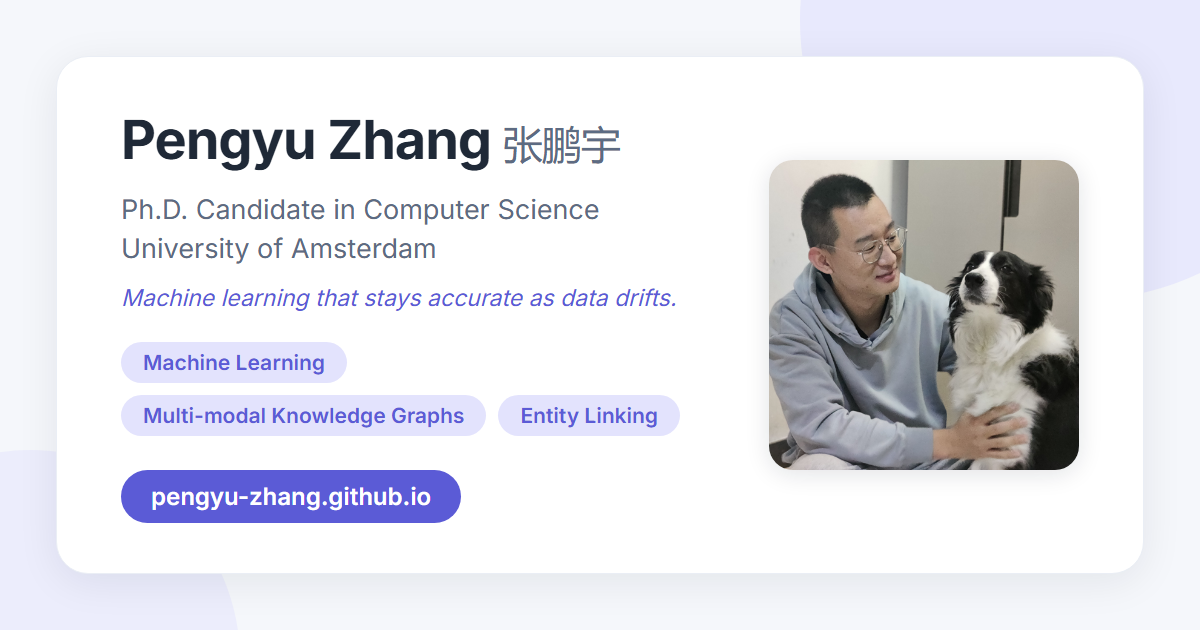
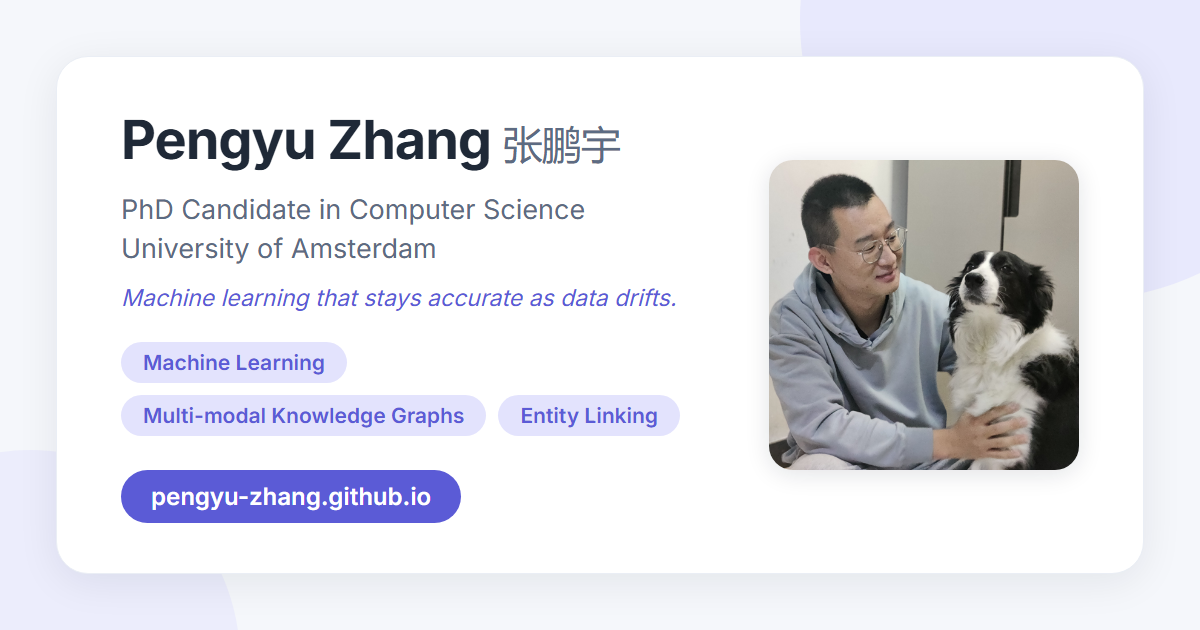
Copy: PhD and MEng without dots; languages as on the CV
European usage, matching UvA and the CV: PhD / MEng everywhere
(About, Education, profile card, News, meta description, JSON-LD
jobTitle, share-card alt text, README). The share card is regenerated
with the new wording and og:image bumped to ?v=5. Languages read
"English (fluent, IELTS 7.0), Dutch (elementary, A2)".

Changed region(s): [[0.1233, 0.3016, 0.4933, 0.3619]]

diff --git a/_includes/seo.html b/_includes/seo.html
@@ -14,13 +14,13 @@
 <meta property="og:description" content="{{ seo_description }}">
 {% comment %} share card: regenerate with tools/make_og_card.py and bump ?v=
 when it changes, so LinkedIn and friends drop their cached copy {% endcomment %}
-<meta property="og:image" content="{{ site.url }}/images/og-card.png?v=4">
+<meta property="og:image" content="{{ site.url }}/images/og-card.png?v=5">
 <meta property="og:image:width" content="1200">
 <meta property="og:image:height" content="630">
-<meta property="og:image:alt" content="Pengyu Zhang, Ph.D. Candidate in Computer Science. Machine learning that stays accurate as data drifts.">
-<meta name="twitter:image:alt" content="Pengyu Zhang, Ph.D. Candidate in Computer Science. Machine learning that stays accurate as data drifts.">
+<meta property="og:image:alt" content="Pengyu Zhang, PhD Candidate in Computer Science. Machine learning that stays accurate as data drifts.">
+<meta name="twitter:image:alt" content="Pengyu Zhang, PhD Candidate in Computer Science. Machine learning that stays accurate as data drifts.">
 <meta name="twitter:card" content="summary_large_image">
-<meta name="twitter:image" content="{{ site.url }}/images/og-card.png?v=4">
+<meta name="twitter:image" content="{{ site.url }}/images/og-card.png?v=5">
 
 {% if site.google_site_verification %}
 <meta name="google-site-verification" content="{{ site.google_site_verification }}">
@@ -34,7 +34,7 @@ when it changes, so LinkedIn and friends drop their cached copy {% endcomment %}
   "url": "{{ site.url }}/",
   "image": "{{ site.url }}/{{ site.author.avatar }}",
   "email": "mailto:{{ site.author.email }}",
-  "jobTitle": "Ph.D. Candidate in Computer Science",
+  "jobTitle": "PhD Candidate in Computer Science",
   "affiliation": {
     "@type": "CollegeOrUniversity",
     "name": "University of Amsterdam"

diff --git a/_includes/author-profile.html b/_includes/author-profile.html
@@ -10,7 +10,7 @@ the theme-toggle moon/sun. No icon fonts ship. {% endcomment %}
 
   <h1 class="profile-card__name">{{ author.name }} <span class="profile-card__name-zh" lang="zh-Hans">张鹏宇</span></h1>
 
-  <p class="profile-card__role">Ph.D. Candidate<br>Computer Science<br>{{ author.employer }}</p>
+  <p class="profile-card__role">PhD Candidate<br>Computer Science<br>{{ author.employer }}</p>
 
   <p class="profile-card__location"><svg class="pc-icon" viewBox="0 0 24 24" fill="none" stroke="currentColor" stroke-width="2" stroke-linecap="round" stroke-linejoin="round" aria-hidden="true"><path d="M21 10c0 7-9 13-9 13s-9-6-9-13a9 9 0 0 1 18 0z"/><circle cx="12" cy="10" r="3"/></svg> Amsterdam, the Netherlands</p>
 

diff --git a/_includes/education.md b/_includes/education.md
@@ -1,5 +1,5 @@
 ## Education
 
-- *2022 - Present* **Ph.D. in Computer Science** (defense planned for March 2027), [INDElab](https://indelab.org/), Faculty of Science, University of Amsterdam (UvA), the Netherlands. Supervisors: [Prof. Dr. Paul Groth](https://pgroth.com/), [Dr. Klim Zaporojets](https://klimzaporojets.github.io/).
-- *2019 - 2022* **M.Eng. in Control Engineering**, Faculty of Information Technology, Beijing University of Technology (BJUT), China. Supervisor: [Prof. Dr. Yong Zhang](https://scholar.google.com/citations?user=UAaN_RAAAAAJ&hl=en).
+- *2022 - Present* **PhD in Computer Science** (defense planned for March 2027), [INDElab](https://indelab.org/), Faculty of Science, University of Amsterdam (UvA), the Netherlands. Supervisors: [Prof. Dr. Paul Groth](https://pgroth.com/), [Dr. Klim Zaporojets](https://klimzaporojets.github.io/).
+- *2019 - 2022* **MEng in Control Engineering**, Faculty of Information Technology, Beijing University of Technology (BJUT), China. Supervisor: [Prof. Dr. Yong Zhang](https://scholar.google.com/citations?user=UAaN_RAAAAAJ&hl=en).
 {: .timeline}

diff --git a/_includes/intro.md b/_includes/intro.md
@@ -1,6 +1,6 @@
 ## About Me
 
-I am a final-year Ph.D. candidate in Computer Science at the University of Amsterdam ([INDElab](https://indelab.org/)), advised by [Prof. Dr. Paul Groth](https://pgroth.com) and [Dr. Klim Zaporojets](https://klimzaporojets.github.io/). My defense is planned for March 2027.
+I am a final-year PhD candidate in Computer Science at the University of Amsterdam ([INDElab](https://indelab.org/)), advised by [Prof. Dr. Paul Groth](https://pgroth.com) and [Dr. Klim Zaporojets](https://klimzaporojets.github.io/). My defense is planned for March 2027.
 
 <div class="job-callout" markdown="1">
 **I am on the job market, open to industry roles (Applied Scientist / Machine Learning Engineer / Data Scientist) and postdoctoral positions.** Reach me at [p.y.zhang3@gmail.com](mailto:p.y.zhang3@gmail.com) or download my [CV&nbsp;(PDF)](/pdf/Pengyu_Zhang_CV.pdf).

diff --git a/_pages/about.md b/_pages/about.md
@@ -2,7 +2,7 @@
 permalink: /
 last_modified_at: 2026-09-22
 seo_title: "Pengyu Zhang | PhD Candidate, University of Amsterdam"
-description: "Final-year Computer Science Ph.D. candidate at the University of Amsterdam, building models that keep entity linking, knowledge graph completion, and recommendation accurate as data drifts and on look-alike entities. On the job market for industry and postdoctoral positions."
+description: "Final-year Computer Science PhD candidate at the University of Amsterdam, building models that keep entity linking, knowledge graph completion, and recommendation accurate as data drifts and on look-alike entities. On the job market for industry and postdoctoral positions."
 redirect_from:
   - /about/
   - /about.html

diff --git a/_includes/skills.md b/_includes/skills.md
@@ -21,6 +21,6 @@
       <b class="item">Recommendation</b></p>
   <h3>Languages</h3>
   <p><span class="item">Chinese (native)</span><span class="sep">,</span>
-      <span class="item">English (fluent)</span><span class="sep">,</span>
-      <span class="item">Dutch (A2)</span></p>
+      <span class="item">English (fluent, IELTS 7.0)</span><span class="sep">,</span>
+      <span class="item">Dutch (elementary, A2)</span></p>
 </div>

diff --git a/_includes/news-items.md b/_includes/news-items.md
@@ -17,6 +17,6 @@
 - *2024.09* Our paper on entity linking in co-occurrence networks was accepted at **EKAW 2024**.
 - *2024.07* *CYCLE* was accepted at **CIKM 2024**.
 - *2024.07* *TIGER* was accepted at **ECAI 2024**.
-- *2022.09* Joined **INDElab** at the University of Amsterdam to start my Ph.D.
+- *2022.09* Joined **INDElab** at the University of Amsterdam to start my PhD
 
 </details>

diff --git a/README.md b/README.md
@@ -1,6 +1,6 @@
 # pengyu-zhang.github.io
 
-Personal academic homepage of **Pengyu Zhang**, Ph.D. candidate in Computer
+Personal academic homepage of **Pengyu Zhang**, PhD candidate in Computer
 Science at the University of Amsterdam.
 
 **Live site: <https://pengyu-zhang.github.io/>**
